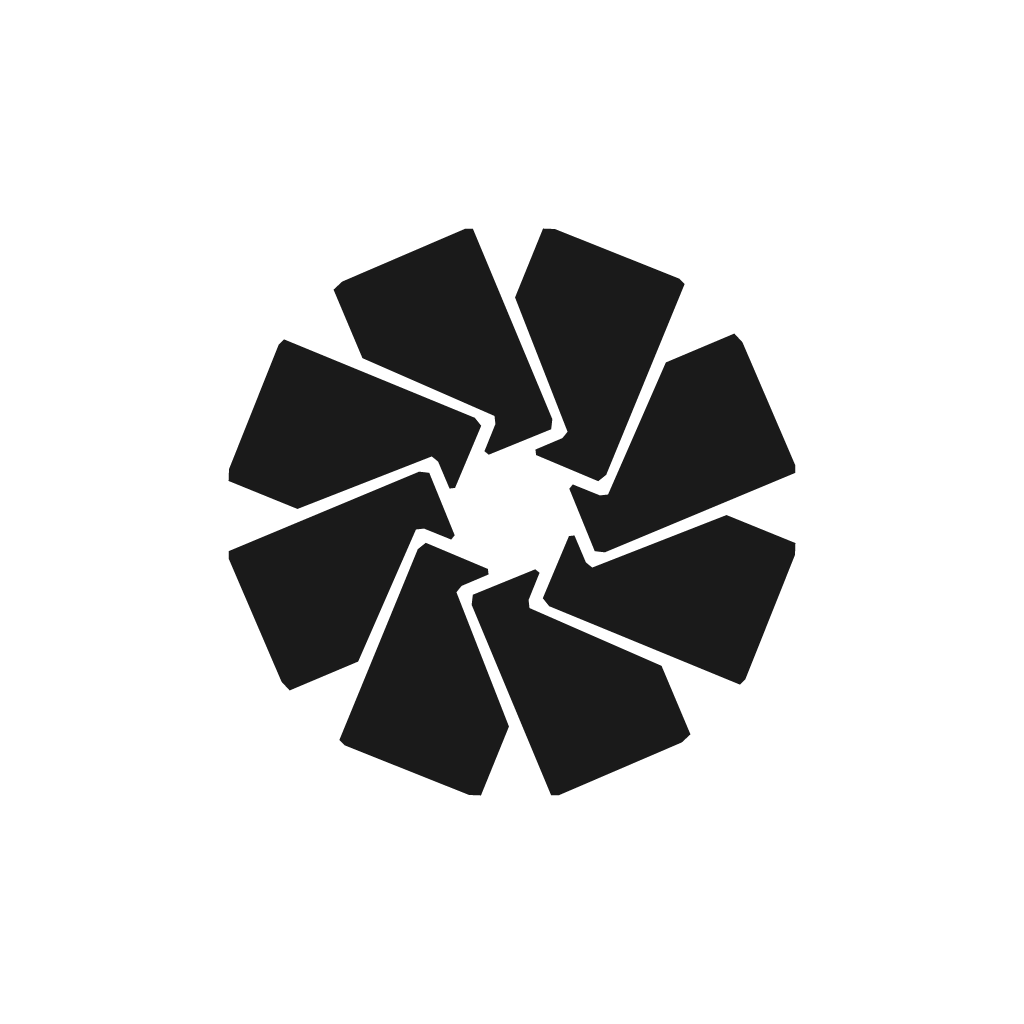
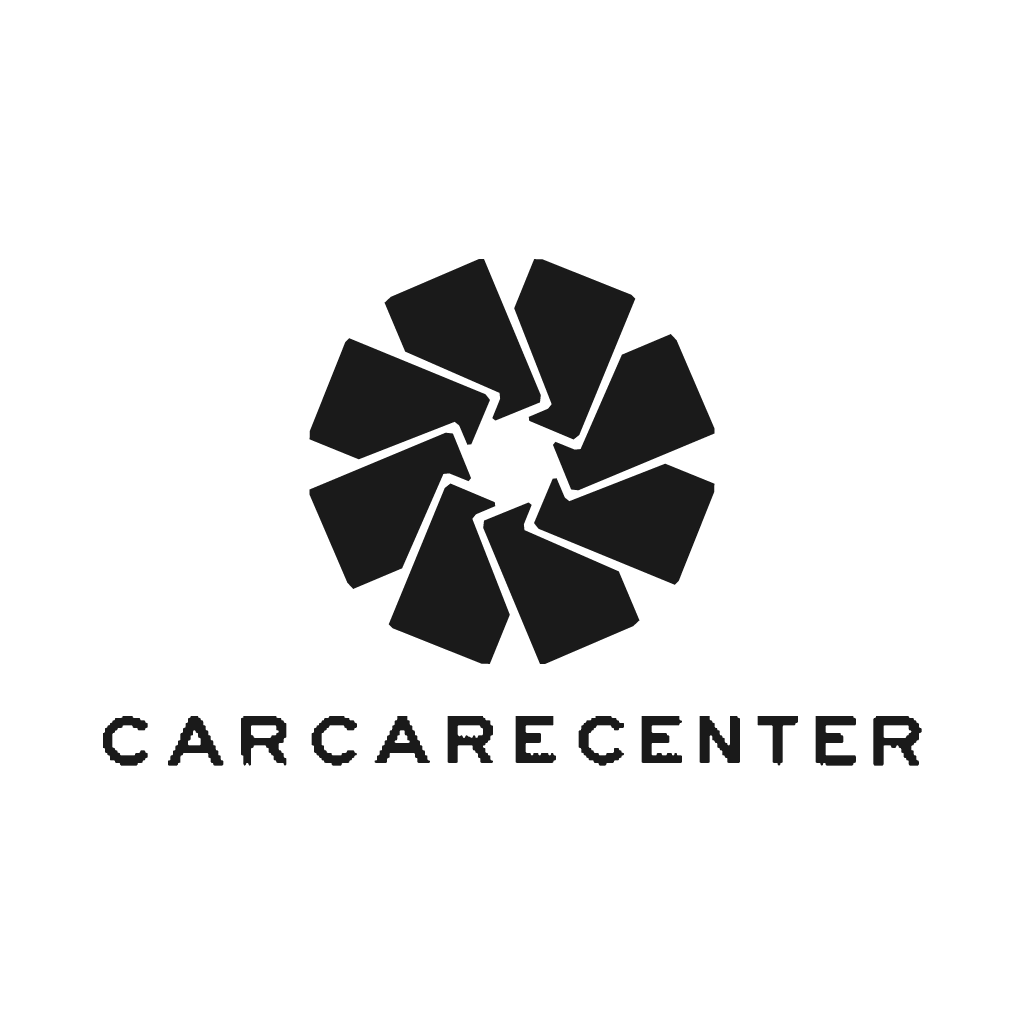
アプリアイコンを文字入り（CARCARECENTER）にした
発注者の要望（2026-10-24）。マークだけでは社名が分からないため。

・マークは従来どおり、8方向に重ねて平均→直線で描き直したきれいな形
・その下に「CARCARECENTER」を置く。罫線と
  「Membership Car Wash Lounge」はアイコンの大きさでは読めないので入れない
・文字はマークと違って回転対称が使えないので、拡大→ぼかし→二値化で
  縁のガタつきを均すだけにしてある
・ホーム画面（60pt）では読める。設定アプリ（29pt）では潰れるが、
  そこはマークの形で認識できるので許容する

Androidのアダプティブアイコンと通知アイコンは外周が削られるため、
これまでどおりマークのみ。Webのfaviconも小さいのでマークのみ。

★ この変更はネイティブのため、OTAでは配れない。次のビルドから入る。

Changed region(s): [[0.0938, 0.2188, 0.9062, 0.7812]]

diff --git a/scripts/make-icons.js b/scripts/make-icons.js
@@ -18,6 +18,9 @@ const fs = require("fs");
 
 const SRC = "/Users/takuma/projects/carcare-app/app/src/assets/logo.png";
 const MARK = { x: 266, y: 8, w: 248, h: 246 };
+/* 「CARCARECENTER」の文字。罫線と「Membership Car Wash Lounge」は
+   アイコンの大きさでは読めないので入れない（2026-10-24 発注者の要望で文字入りに）。 */
+const WORD = { x: 66, y: 284, w: 650, h: 40 };
 const INK = [0x1a, 0x1a, 0x1a];          // theme.ts の colors.text
 const UP = 8;                            // 輪郭を取るときの拡大率
 const EPS = 1.1;                         // 直線近似の許容ずれ（元画素）
@@ -140,6 +143,45 @@ console.log("輪郭の点:", contour.length, "→ 直線近似後の頂点:", po
 /* 元画像の座標系（中心を原点）に直す */
 const P = poly.map(([x, y]) => [ (x + 0.5) / UP - CX, (y + 0.5) / UP - CY ]);
 
+/* 文字の部分を、拡大→ぼかし→二値化で取り出す（縁のガタつきを均す）。
+   マークと違って回転対称が使えないので、こちらは素直に均すだけ。 */
+function wordMask(outW, outH) {
+  const SS = 3;
+  const W = outW * SS, H = outH * SS;
+  const a = new Float64Array(W * H);
+  const at = (x, y) => {
+    if (x < 0 || y < 0 || x > src.width - 1 || y > src.height - 1) return 0;
+    const x0 = Math.floor(x), y0 = Math.floor(y), fx = x - x0, fy = y - y0;
+    const g = (px, py) => (px < 0 || py < 0 || px >= src.width || py >= src.height)
+      ? 0 : src.data[(py * src.width + px) * 4 + 3] / 255;
+    return g(x0,y0)*(1-fx)*(1-fy) + g(x0+1,y0)*fx*(1-fy) + g(x0,y0+1)*(1-fx)*fy + g(x0+1,y0+1)*fx*fy;
+  };
+  for (let y = 0; y < H; y++) for (let x = 0; x < W; x++) {
+    a[y * W + x] = at(WORD.x + (x + 0.5) * WORD.w / W, WORD.y + (y + 0.5) * WORD.h / H);
+  }
+  const r = Math.max(1, Math.round(0.55 * SS));
+  const t = new Float64Array(W * H);
+  const blur = (inp, outp, horiz) => {
+    for (let y = 0; y < H; y++) for (let x = 0; x < W; x++) {
+      let s2 = 0, c = 0;
+      for (let k = -r; k <= r; k++) {
+        const xx = horiz ? x + k : x, yy = horiz ? y : y + k;
+        if (xx < 0 || yy < 0 || xx >= W || yy >= H) continue;
+        s2 += inp[yy * W + xx]; c++;
+      }
+      outp[y * W + x] = s2 / c;
+    }
+  };
+  blur(a, t, true); blur(t, a, false);
+  const out = new Float64Array(outW * outH);
+  for (let y = 0; y < outH; y++) for (let x = 0; x < outW; x++) {
+    let s2 = 0;
+    for (let j = 0; j < SS; j++) for (let k = 0; k < SS; k++) s2 += a[(y*SS+j)*W + (x*SS+k)] >= 0.5 ? 1 : 0;
+    out[y * outW + x] = s2 / (SS * SS);
+  }
+  return out;
+}
+
 /* ④ 多角形として45°ずつ8枚描く */
 function pointIn(poly, x, y) {
   let c = false;
@@ -150,7 +192,7 @@ function pointIn(poly, x, y) {
   return c;
 }
 const SS = 4;   // 1画素あたり4x4で判定して、なめらかな縁にする
-function make(file, { canvas = 1024, markRatio, bg, ink = INK }) {
+function make(file, { canvas = 1024, markRatio, bg, ink = INK, wordRatio = 0, gapRatio = 0.05 }) {
   const markPx = canvas * markRatio;
   const scale = markPx / MARK.w;
   const png = new PNG({ width: canvas, height: canvas });
@@ -158,11 +200,28 @@ function make(file, { canvas = 1024, markRatio, bg, ink = INK }) {
     png.data[i*4] = bg ? bg[0] : 0; png.data[i*4+1] = bg ? bg[1] : 0;
     png.data[i*4+2] = bg ? bg[2] : 0; png.data[i*4+3] = bg ? 255 : 0;
   }
+
+  /* 文字を入れるときは、マークと文字を合わせた塊を中央に置く。
+     マークだけのときは今までどおり画面の中心に描く。 */
+  let markShiftY = 0;
+  let wordTop = 0, wordW = 0, wordH = 0;
+  if (wordRatio > 0) {
+    wordW = Math.round(canvas * wordRatio);
+    wordH = Math.round(wordW * WORD.h / WORD.w);
+    const gap = Math.round(canvas * gapRatio);
+    const markH = markPx * MARK.h / MARK.w;
+    const total = markH + gap + wordH;
+    const top = (canvas - total) / 2;
+    markShiftY = top + markH / 2 - canvas / 2;   // マークの中心をどれだけ上げるか
+    wordTop = Math.round(top + markH + gap);
+  }
+
   if (markRatio > 0) {
     const polys = [];
     for (let i = 0; i < 8; i++) {
       const t = i * Math.PI / 4, cs = Math.cos(t), sn = Math.sin(t);
-      polys.push(P.map(([x, y]) => [ (x * cs - y * sn) * scale + canvas / 2, (x * sn + y * cs) * scale + canvas / 2 ]));
+      polys.push(P.map(([x, y]) => [ (x * cs - y * sn) * scale + canvas / 2,
+                                     (x * sn + y * cs) * scale + canvas / 2 + markShiftY ]));
     }
     // 描く範囲だけ回す
     let x0 = canvas, y0 = canvas, x1 = 0, y1 = 0;
@@ -183,13 +242,28 @@ function make(file, { canvas = 1024, markRatio, bg, ink = INK }) {
       png.data[i+3] = bg ? 255 : Math.round(a * 255);
     }
   }
+  if (wordRatio > 0) {
+    const wm = wordMask(wordW, wordH);
+    const ox = Math.round((canvas - wordW) / 2);
+    for (let y = 0; y < wordH; y++) for (let x = 0; x < wordW; x++) {
+      const al = wm[y * wordW + x];
+      if (al <= 0.004) continue;
+      const i = ((y + wordTop) * canvas + (x + ox)) * 4;
+      for (let c = 0; c < 3; c++) png.data[i + c] = Math.round(ink[c] * al + png.data[i + c] * (1 - al));
+      png.data[i + 3] = bg ? 255 : Math.round(al * 255);
+    }
+  }
+
   fs.writeFileSync(file, PNG.sync.write(png, bg ? { colorType: 2, inputHasAlpha: true } : {}));
-  console.log("書き出し:", file.split("/").pop(), canvas + "px", "マーク" + Math.round(markRatio * 100) + "%");
+  console.log("書き出し:", file.split("/").pop(), canvas + "px",
+    "マーク" + Math.round(markRatio * 100) + "%" + (wordRatio ? " ＋文字" + Math.round(wordRatio * 100) + "%" : ""));
 }
 
 const D = process.env.OUTDIR || "/Users/takuma/projects/carcare-app/app/assets/";
 const WHITE = [255, 255, 255];
-make(D + "icon.png", { markRatio: 0.56, bg: WHITE });
+/* ★ iOS・汎用。発注者の要望で文字入り（2026-10-24）。
+   Androidのアダプティブと通知は外周が削られるので、文字は入れない。 */
+make(D + "icon.png", { markRatio: 0.40, wordRatio: 0.80, bg: WHITE });
 make(D + "favicon.png", { canvas: 196, markRatio: 0.66, bg: WHITE });
 make(D + "android-icon-foreground.png", { markRatio: 0.42 });
 make(D + "android-icon-background.png", { markRatio: 0, bg: WHITE });
